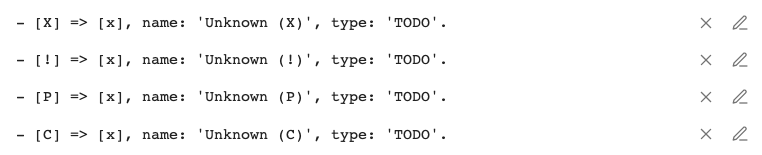
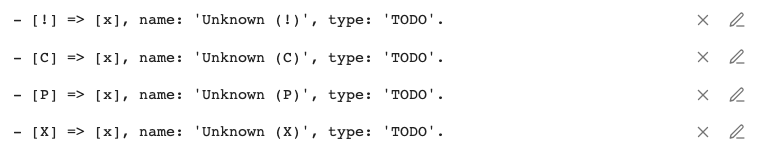
fix: 'Add All Unknown Status Types' now sorts new statuses by symbol (#2384)
* fix: 'Add All Unknown Status Types' now sorts new statuses by symbol

This makes it a lot easier to understand the new statuses,
and should make it easier to edit them too.

* docs: Update 'Status Settings' docs for new statuses being sorted.

diff --git a/tests/StatusRegistry.test.ts b/tests/StatusRegistry.test.ts
@@ -396,7 +396,7 @@ describe('StatusRegistry', () => {
             expect(toggled?.status.symbol).toEqual('D');
         });
 
-        it('should bulk-add unknown statuses', () => {
+        it('should find unknown statuses from tasks in the vault, sorted by symbol', () => {
             // Arrange
             const registry = new StatusRegistry();
             expect(registry.bySymbol('!').type).toEqual(StatusType.EMPTY);
@@ -426,12 +426,12 @@ describe('StatusRegistry', () => {
             expect(s1.name).toEqual('Unknown (!)');
 
             s1 = unknownStatuses[1];
-            expect(s1.type).toEqual(StatusType.DONE);
-            expect(s1.name).toEqual('Unknown (X)');
-
-            s1 = unknownStatuses[2];
             expect(s1.type).toEqual(StatusType.IN_PROGRESS);
             expect(s1.name).toEqual('Unknown (d)');
+
+            s1 = unknownStatuses[2];
+            expect(s1.type).toEqual(StatusType.DONE);
+            expect(s1.name).toEqual('Unknown (X)');
         });
     });
 });

diff --git a/src/StatusRegistry.ts b/src/StatusRegistry.ts
@@ -232,7 +232,10 @@ export class StatusRegistry {
             // And add it to our local registry, to prevent duplicates.
             newStatusRegistry.add(newStatus);
         });
-        return namedUniqueStatuses;
+
+        return namedUniqueStatuses.sort((status1, status2) => {
+            return status1.symbol.localeCompare(status2.symbol, undefined, { numeric: true });
+        });
     }
 
     private static copyStatusWithNewName(s: Status, newName: string) {

diff --git a/docs/Getting Started/Statuses/Status Settings.md b/docs/Getting Started/Statuses/Status Settings.md
@@ -74,7 +74,9 @@ You can find a full list, with screenshots and complete details of the supported
 ### Add All Unknown Status Types
 
 This searches all the tasks in your vault for any with status symbols that are not already in Tasks settings.
-It then creates a new symbol for each unknown status symbol.
+It then creates a new custom status for each unknown status symbol.
+
+The new statuses are sort by their symbols.
 This can be a convenient way to populate the Custom Statuses settings.
 
 For example, in a vault that has already used a few custom statuses, we might see:
